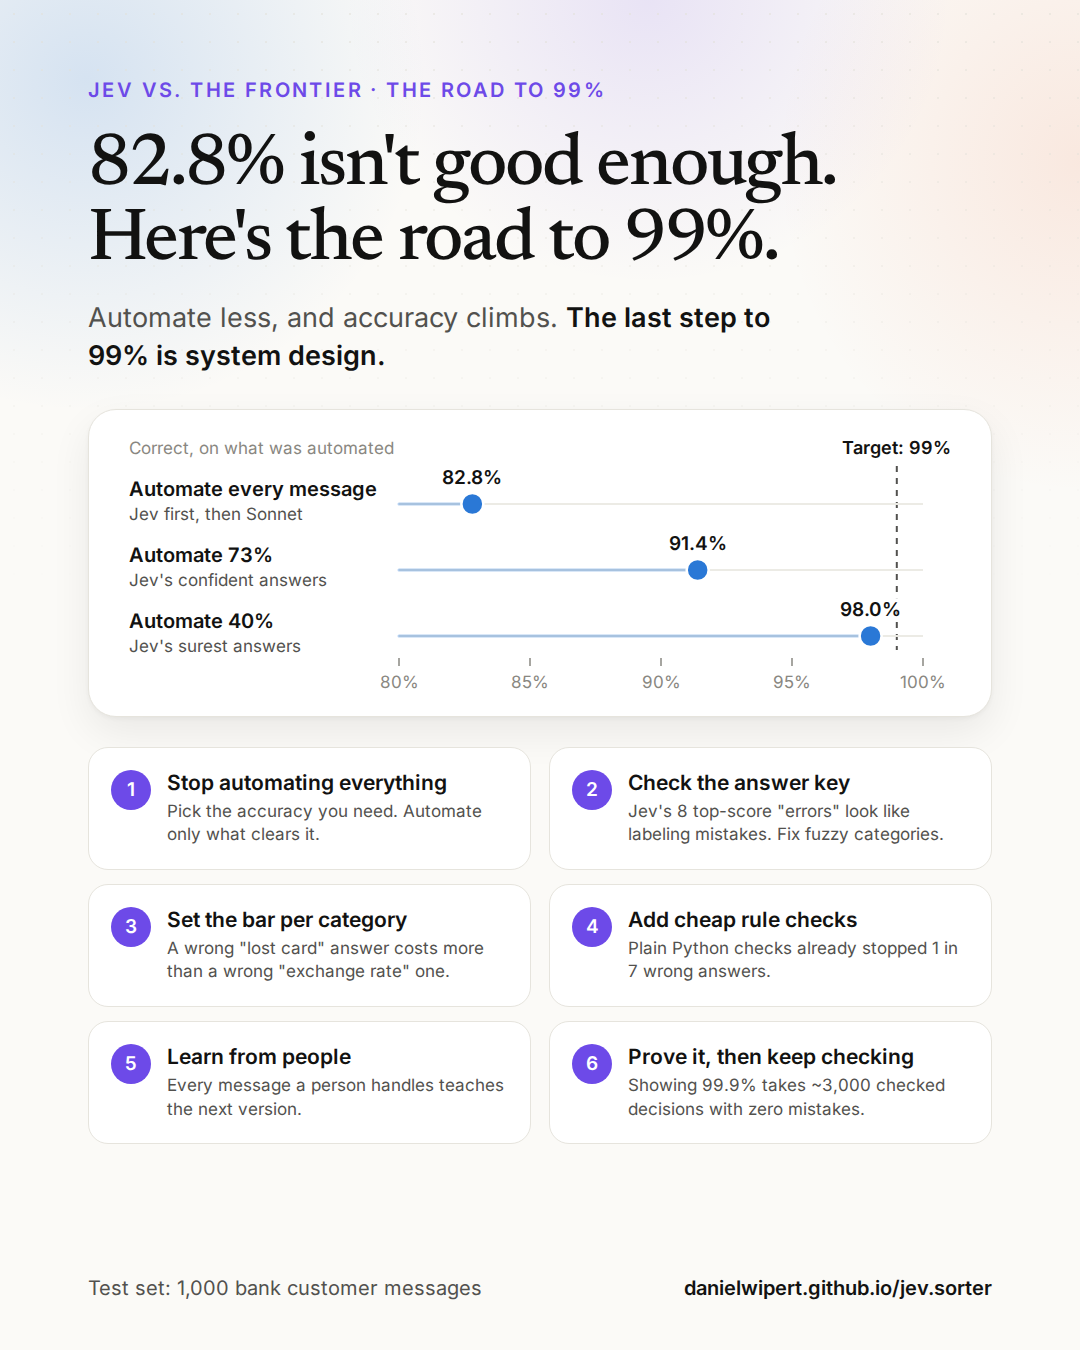
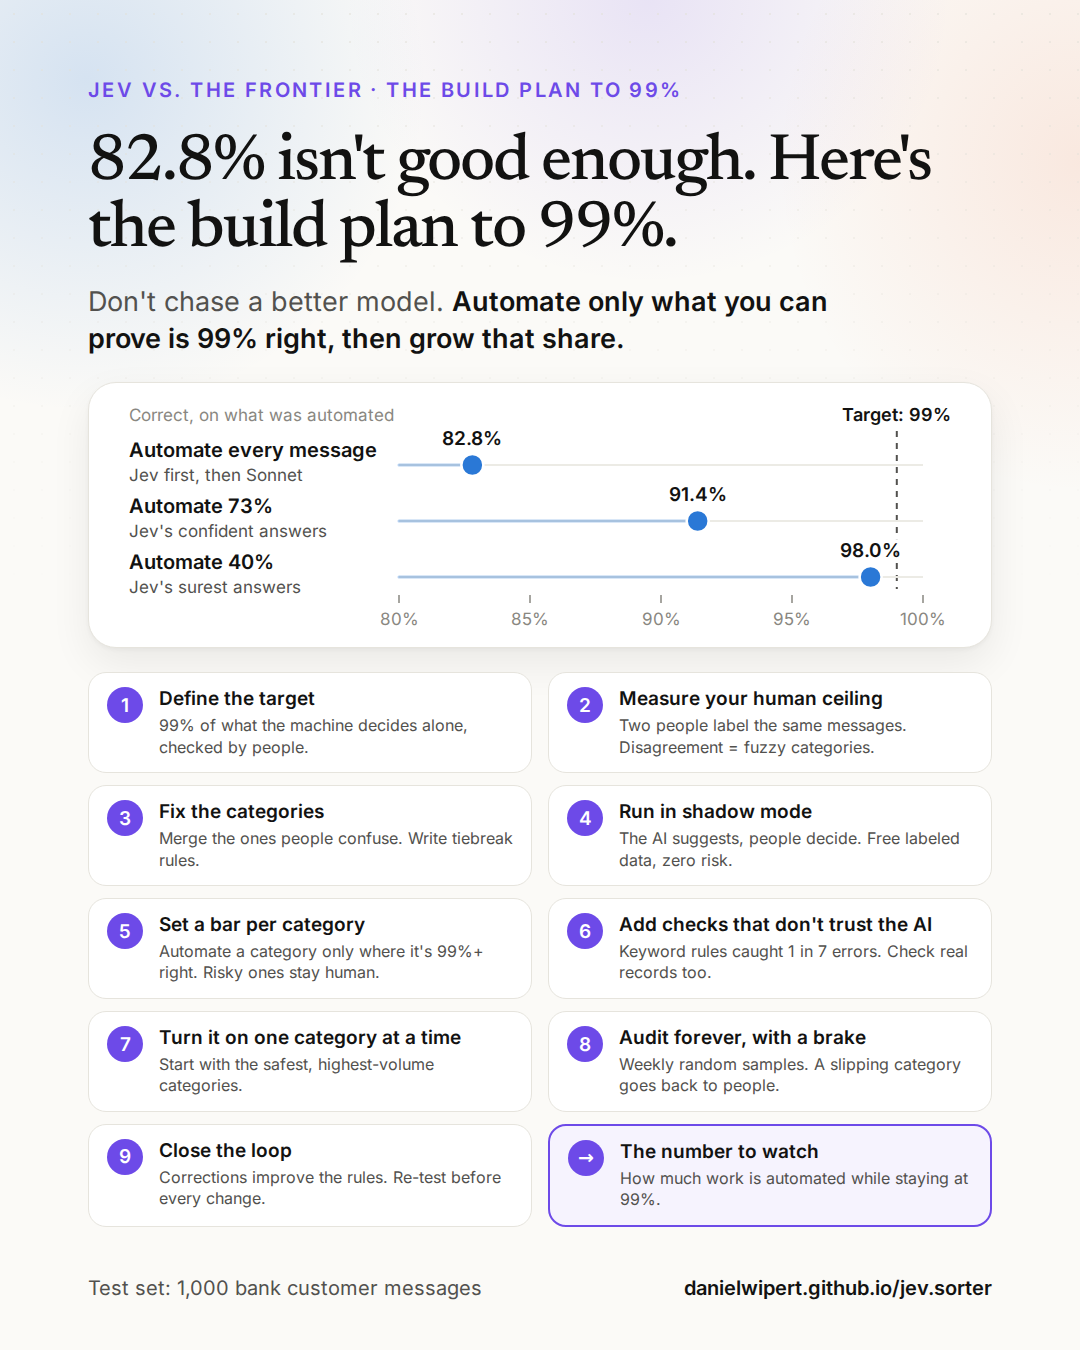
LinkedIn post 4: rewrite as a 9-step build plan to 99%, new image
Claude-Session: https://claude.ai/code/session_01Jjk8N1psrVPAyicWzEwHiP

diff --git a/promo/cascade.html b/promo/cascade.html
@@ -55,11 +55,12 @@
   .note { font-size: 19px; color: var(--muted); margin-top: 18px; line-height: 1.4; }
 
   /* slide 2: the road */
-  .steps { display: grid; grid-template-columns: 1fr 1fr; gap: 14px 18px; margin-top: 30px; }
-  .rs { background: var(--surface); border: 1.5px solid var(--hair); border-radius: 20px; padding: 22px 22px; display: grid; grid-template-columns: 44px 1fr; gap: 4px 12px; }
-  .rs .n { grid-row: span 2; width: 40px; height: 40px; border-radius: 50%; background: var(--a2); color: #fff; display: grid; place-items: center; font: 600 19px/1 var(--sans); }
-  .rs .t { font: 600 21px/1.25 var(--sans); }
-  .rs .d { font-size: 17px; line-height: 1.38; color: var(--ink-2); }
+  .steps { display: grid; grid-template-columns: 1fr 1fr; gap: 12px 16px; margin-top: 24px; }
+  .rs { background: var(--surface); border: 1.5px solid var(--hair); border-radius: 18px; padding: 14px 18px; display: grid; align-content: start; grid-template-columns: 40px 1fr; gap: 4px 12px; }
+  .rs .n { grid-row: span 2; width: 36px; height: 36px; border-radius: 50%; background: var(--a2); color: #fff; display: grid; place-items: center; font: 600 19px/1 var(--sans); }
+  .rs .t { font: 600 19px/1.25 var(--sans); }
+  .rs.metric { border: 2.5px solid var(--a2); background: #f6f3fe; }
+  .rs .d { font-size: 16px; line-height: 1.35; color: var(--ink-2); }
 </style>
 </head>
 <body>
@@ -115,23 +116,27 @@
   <div class="foot"><span>Test set: 1,000 bank customer messages</span><b>danielwipert.github.io/jev.sorter</b></div>
 </section>
 
-<!-- 2 · The road to 99% -->
+<!-- 2 · The build plan to 99% -->
 <section class="slide">
-  <div class="top">Jev vs. the Frontier · The road to 99%</div>
-  <h2>82.8% isn't good enough. Here's the road to 99%.</h2>
-  <p class="sub">Automate less, and accuracy climbs. <b>The last step to 99% is system design.</b></p>
+  <div class="top">Jev vs. the Frontier · The build plan to 99%</div>
+  <h2 style="font-size:66px">82.8% isn't good enough. Here's the build plan to 99%.</h2>
+  <p class="sub">Don't chase a better model. <b>Automate only what you can prove is 99% right, then grow that share.</b></p>
 
-  <div class="card" style="padding: 26px 40px 14px">
-    <svg id="road" width="824" height="262" role="img" aria-label="Accuracy at three automation levels against a 99% target"></svg>
+  <div class="card" style="padding: 20px 40px 8px; margin-top: 24px">
+    <svg id="road" width="824" height="232" role="img" aria-label="Accuracy at three automation levels against a 99% target"></svg>
   </div>
 
   <div class="steps">
-    <div class="rs"><div class="n">1</div><div class="t">Stop automating everything</div><div class="d">Pick the accuracy you need. Automate only what clears it.</div></div>
-    <div class="rs"><div class="n">2</div><div class="t">Check the answer key</div><div class="d">Jev's 8 top-score "errors" look like labeling mistakes. Fix fuzzy categories.</div></div>
-    <div class="rs"><div class="n">3</div><div class="t">Set the bar per category</div><div class="d">A wrong "lost card" answer costs more than a wrong "exchange rate" one.</div></div>
-    <div class="rs"><div class="n">4</div><div class="t">Add cheap rule checks</div><div class="d">Plain Python checks already stopped 1 in 7 wrong answers.</div></div>
-    <div class="rs"><div class="n">5</div><div class="t">Learn from people</div><div class="d">Every message a person handles teaches the next version.</div></div>
-    <div class="rs"><div class="n">6</div><div class="t">Prove it, then keep checking</div><div class="d">Showing 99.9% takes ~3,000 checked decisions with zero mistakes.</div></div>
+    <div class="rs"><div class="n">1</div><div class="t">Define the target</div><div class="d">99% of what the machine decides alone, checked by people.</div></div>
+    <div class="rs"><div class="n">2</div><div class="t">Measure your human ceiling</div><div class="d">Two people label the same messages. Disagreement = fuzzy categories.</div></div>
+    <div class="rs"><div class="n">3</div><div class="t">Fix the categories</div><div class="d">Merge the ones people confuse. Write tiebreak rules.</div></div>
+    <div class="rs"><div class="n">4</div><div class="t">Run in shadow mode</div><div class="d">The AI suggests, people decide. Free labeled data, zero risk.</div></div>
+    <div class="rs"><div class="n">5</div><div class="t">Set a bar per category</div><div class="d">Automate a category only where it's 99%+ right. Risky ones stay human.</div></div>
+    <div class="rs"><div class="n">6</div><div class="t">Add checks that don't trust the AI</div><div class="d">Keyword rules caught 1 in 7 errors. Check real records too.</div></div>
+    <div class="rs"><div class="n">7</div><div class="t">Turn it on one category at a time</div><div class="d">Start with the safest, highest-volume categories.</div></div>
+    <div class="rs"><div class="n">8</div><div class="t">Audit forever, with a brake</div><div class="d">Weekly random samples. A slipping category goes back to people.</div></div>
+    <div class="rs"><div class="n">9</div><div class="t">Close the loop</div><div class="d">Corrections improve the rules. Re-test before every change.</div></div>
+    <div class="rs metric"><div class="n">→</div><div class="t">The number to watch</div><div class="d">How much work is automated while staying at 99%.</div></div>
   </div>
 
   <div class="foot"><span>Test set: 1,000 bank customer messages</span><b>danielwipert.github.io/jev.sorter</b></div>
@@ -151,10 +156,10 @@ const ns = 'http://www.w3.org/2000/svg', svg = document.getElementById('road');
 const el = (tag, a, text) => { const e = document.createElementNS(ns, tag); for (const k in a) e.setAttribute(k, a[k]); if (text) e.textContent = text; svg.appendChild(e); return e; };
 
 // target line
-el('line', { x1: x(99), x2: x(99), y1: 30, y2: 214, stroke: c('--ink-2'), 'stroke-width': 2, 'stroke-dasharray': '6 6' });
+el('line', { x1: x(99), x2: x(99), y1: 28, y2: 186, stroke: c('--ink-2'), 'stroke-width': 2, 'stroke-dasharray': '6 6' });
 el('text', { x: x(99), y: 18, 'text-anchor': 'middle', 'font-size': 18, 'font-weight': 600, fill: c('--ink') }, 'Target: 99%');
 ROWS.forEach((r, k) => {
-  const y = 62 + k * 66;
+  const y = 56 + k * 56;
   el('text', { x: 0, y: y - 2, 'font-size': 20, 'font-weight': 600, fill: c('--ink') }, r.name);
   el('text', { x: 0, y: y + 22, 'font-size': 17, fill: c('--ink-2') }, r.sub);
   el('line', { x1: x(X0), x2: x(X1), y1: y + 6, y2: y + 6, stroke: c('--grid'), 'stroke-width': 2 });
@@ -163,8 +168,8 @@ ROWS.forEach((r, k) => {
   el('text', { x: x(r.acc), y: y - 14, 'text-anchor': 'middle', 'font-size': 19, 'font-weight': 600, fill: c('--ink'), stroke: c('--surface'), 'stroke-width': 8, 'paint-order': 'stroke' }, r.acc.toFixed(1) + '%');
 });
 for (let t = 80; t <= 100; t += 5) {
-  el('line', { x1: x(t), x2: x(t), y1: 222, y2: 230, stroke: c('--muted'), 'stroke-width': 1.5 });
-  el('text', { x: x(t), y: 252, 'text-anchor': 'middle', 'font-size': 17, fill: c('--muted') }, t + '%');
+  el('line', { x1: x(t), x2: x(t), y1: 192, y2: 200, stroke: c('--muted'), 'stroke-width': 1.5 });
+  el('text', { x: x(t), y: 222, 'text-anchor': 'middle', 'font-size': 17, fill: c('--muted') }, t + '%');
 }
 el('text', { x: 0, y: 18, 'font-size': 17, fill: c('--muted') }, 'Correct, on what was automated');
 </script>

diff --git a/promo/linkedin-post-4-road-to-99.md b/promo/linkedin-post-4-road-to-99.md
@@ -1,28 +1,32 @@
-# LinkedIn post 4: the road to 99%
+# LinkedIn post 4: the build plan to 99%
 
 _Draft. Image: `promo/cascade-2.png`. Follows post 3 (cheap model first)._
 
 ---
 
-82.8% accuracy isn't good enough for a real business. Here's how I'd get to 99%.
+82.8% accuracy isn't good enough for a real business. Here's the build plan I'd follow to get to 99%.
 
-In my last post, a cheap-model-first design matched Claude Sonnet 5 at 71% less cost, with 82.8% correct. But if I ran a bank's support queue, I'd want 99%+ on anything a machine decides alone.
+First, a mindset shift: you don't get to 99% by finding a better model. You get there by automating only the work you can prove is 99% right, then growing that share.
 
-My roadmap:
+1. Define the target. "99%" means at most 1 wrong in 100 decisions the machine makes alone, checked by people on a random sample. Not 99% of everything.
 
-1. Automate less. Jev's surest answers cover 40% of messages at 98% correct. People handle the rest.
+2. Measure your human ceiling. Have two people label the same 1,000 messages. Where they disagree, your categories are fuzzy, and no AI will beat that. In my test, all 8 of Jev's "mistakes" at its top score looked like labeling errors to me.
 
-2. Check the answer key. Jev's 8 "errors" at its top score all look like labeling mistakes to me, and Sonnet gave the same answer every time. Fuzzy categories cap your accuracy.
+3. Fix the categories. Merge the ones people confuse. Write tie-break rules, like "asks how long transfers take" vs. "says a transfer never arrived."
 
-3. Set the bar per category. A wrong "lost card" answer costs more than a wrong "exchange rate" one.
+4. Run in shadow mode. The AI suggests, people still decide. A few weeks gives you thousands of labeled examples, with zero risk.
 
-4. Add cheap rule checks. Plain Python checks already stopped 1 in 7 wrong answers.
+5. Set a bar per category. Use the shadow data to find the confidence level where each category is 99%+ right. Categories that never get there stay with people. High-risk ones (stolen cards, fraud) stay with people regardless.
 
-5. Learn from people. Every message a person handles teaches the next version.
+6. Add checks that don't trust the AI. Simple rules: my keyword check caught 1 in 7 wrong answers. And checks against real records: if the AI says "transfer not received," is there actually a pending transfer?
 
-6. Prove it. Showing 99.9% takes about 3,000 checked decisions with zero mistakes. Then keep spot-checking.
+7. Turn it on one category at a time. Start with the safest, highest-volume ones.
 
-The model gets you to ~98% on the easy part. The rest is system design.
+8. Audit forever, with a brake. People review a random sample of automated decisions every week. 300 clean checks in a row supports 99%. If a category slips, it goes back to people automatically.
+
+9. Close the loop. Human corrections feed better descriptions and rules. Re-test on a fixed test set before every change, and pin your model version.
+
+The number to watch isn't accuracy. It's how much work you can automate while staying at 99%. Today, Jev alone handles 40% of messages at 98%. Every step above moves that number up without letting accuracy slip.
 
 Full results and every log: https://danielwipert.github.io/jev.sorter/
 
@@ -49,7 +53,7 @@ This is an after-the-fact reading, not a pre-registered re-scoring, so the post 
 
 **Where the other numbers come from:**
 - 73% sure = Jev's 70% setting (score 85 or higher): 73.1% of messages.
-- 40% at 98% = Jev score 100 that passed the rule checks: 39.6% of messages, 97.98% correct.
+- 40% at 98% = Jev score 100 that passed the rule checks (39.6%, 97.98%), scored against the official labels.
 - 71% cheaper = 1 − $1.51 / $5.25.
-- 3,000 = the "rule of three": with zero errors in n checks, you can be 95% sure the true error rate is below 3/n. 3/3,000 = 0.1%.
-- 1 in 7 = Finding 5 on the site (keyword check).
+- 300 = the "rule of three": with zero errors in n checks, you can be 95% sure the true error rate is below 3/n. 3/300 = 1%, so 300 clean checks supports 99%. (99.9% would take 3,000.)
+- 1 in 7 = Finding 5 on the site (keyword check): 28 of Jev's 184 wrong answers on the test set, while blocking 13 of 816 right ones.

diff --git a/handoff.md b/handoff.md
@@ -22,7 +22,7 @@ _From 2026-09-30:_
 2. **Dan:** decide SemIf **A** (widen to 77 labels; recommended) or **B** (report "can't do 77 as shipped").
 3. Finish the Laya runs if the container was reclaimed. The same commands resume where they stopped (listed in the spec).
 4. Deploy Nimble and SemIf on Modal, run them, analyze, and update the site.
-5. LinkedIn: post 1 (cost) is up. Post 2 (confidence) is drafted. Its image is `promo/confidence-60.png`. Post 3 (cheap model first, image `promo/cascade-1.png`) and post 4 (road to 99%, image `promo/cascade-2.png`) are drafted in `promo/linkedin-post-3-cascade.md` and `promo/linkedin-post-4-road-to-99.md`. Dan should read the 8 top-score "errors" listed in the post 4 file before posting (rebuild: `python promo/build_post_images.py`). Headshot for the site is still optional.
+5. LinkedIn: post 1 (cost) is up. Post 2 (confidence) is drafted. Its image is `promo/confidence-60.png`. Post 3 (cheap model first, image `promo/cascade-1.png`) and post 4 (9-step build plan to 99%, image `promo/cascade-2.png`) are drafted in `promo/linkedin-post-3-cascade.md` and `promo/linkedin-post-4-road-to-99.md`. Dan should read the 8 top-score "errors" listed in the post 4 file before posting (rebuild: `python promo/build_post_images.py`). Headshot for the site is still optional.
 
 ## Notes
 - Pin `typesafe/jev-1.13`; never `jev-latest` or `jev-router`.
